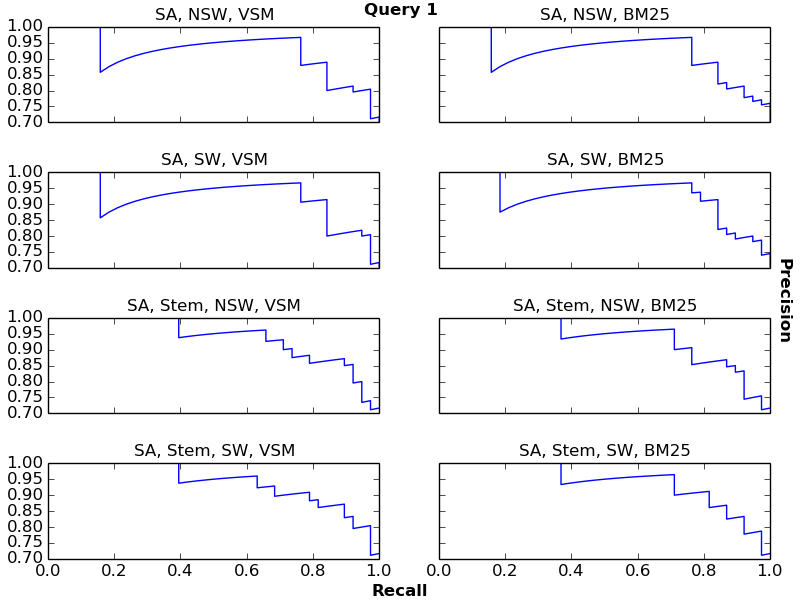
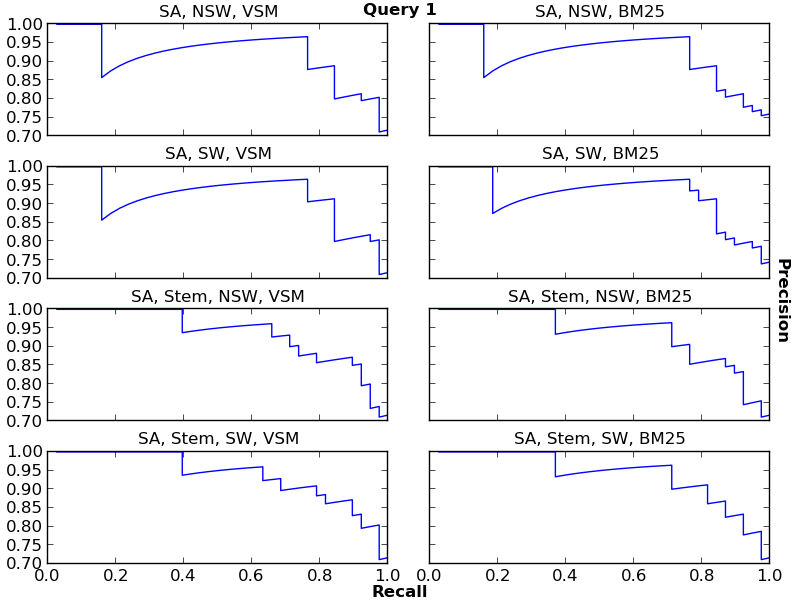
Changed plot axis

diff --git a/PrecRecall/Query1/calcPrecRecall.py b/PrecRecall/Query1/calcPrecRecall.py
@@ -24,7 +24,7 @@ plotTitles = ['SA, NSW, VSM',
               'SA, Stem, SW, VSM',
               'SA, Stem, SW, BM25']
 
-f, axarr = plt.subplots(4,2)
+f, axarr = plt.subplots(4,2, sharex=True, sharey=True)
 f.tight_layout()
 row = 0 #Row index for subplots
 col = 0 #Column index for subplots 

diff --git a/PrecRecall/Query2/calcPrecRecall.py b/PrecRecall/Query2/calcPrecRecall.py
@@ -24,7 +24,7 @@ plotTitles = ['SA, NSW, VSM',
               'SA, Stem, SW, VSM',
               'SA, Stem, SW, BM25']
 
-f, axarr = plt.subplots(4,2)
+f, axarr = plt.subplots(4,2, sharex=True, sharey=True)
 f.tight_layout()
 row = 0 #Row index for subplots
 col = 0 #Column index for subplots 

diff --git a/PrecRecall/Query3/calcPrecRecall.py b/PrecRecall/Query3/calcPrecRecall.py
@@ -24,7 +24,7 @@ plotTitles = ['SA, NSW, VSM',
               'SA, Stem, SW, VSM',
               'SA, Stem, SW, BM25']
 
-f, axarr = plt.subplots(4,2)
+f, axarr = plt.subplots(4,2, sharex=True, sharey=True)
 f.tight_layout()
 row = 0 #Row index for subplots
 col = 0 #Column index for subplots 
